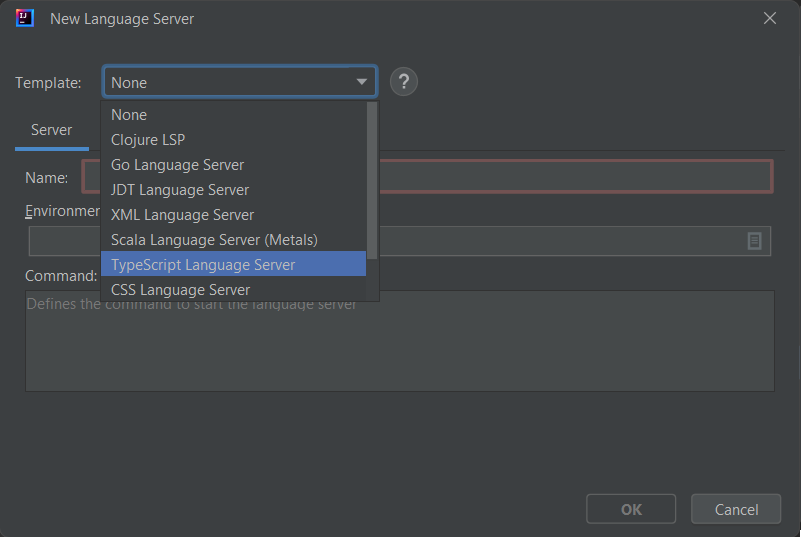
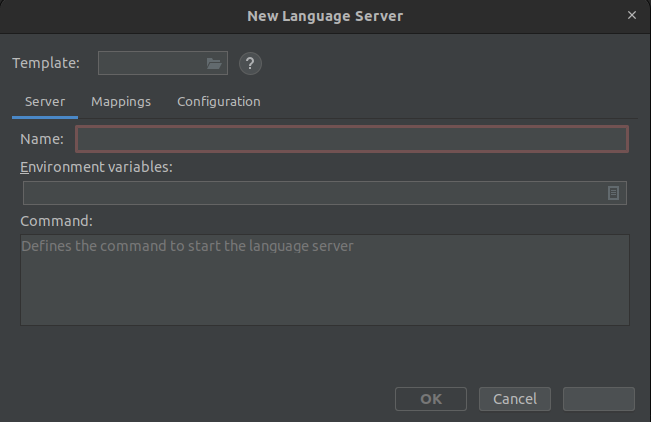
Add some documentation of export and import changes

diff --git a/docs/UserDefinedLanguageServer.md b/docs/UserDefinedLanguageServer.md
@@ -88,7 +88,10 @@ level Trace used in LSP console.
 
 ### Using template
 
-The `Template combo-box` provides some `language servers templates`, pre-filled with server name, command, mappings and potential configuration. 
+The `Template file selector` can be used to select a directory from the file system to use a pre-existing `language servers template`, 
+these templates are pre-filled with server name, command, mappings and potential configuration.
+
+Templates are located in `src/main/java/resources/templates`.
 
 ![New Language Server with Template](./images/user-defined-ls/NewLanguageServerWithTemplate.png)
 
@@ -98,3 +101,13 @@ The `Template combo-box` provides some `language servers templates`, pre-filled 
  * [HTML Language Server](./user-defined-ls/vscode-html-language-server.md)
  * [Scala Language Server (Metals)](./user-defined-ls/metals.md)
  * [TypeScript Language Server](./user-defined-ls/typescript-language-server.md)
+
+### Exporting templates
+
+Users can also export their own language servers to a zip file. This can be done from the LSP console, 
+by selecting one or more language servers and selecting the export option from the context menu.
+
+![Export Language Servers to a Zip](./images/user-defined-ls/ExportUserDefinedLanguageServer.png)
+
+The created zip file contains a separate folder for each language server that can be used as a template 
+when creating a new language servers.
